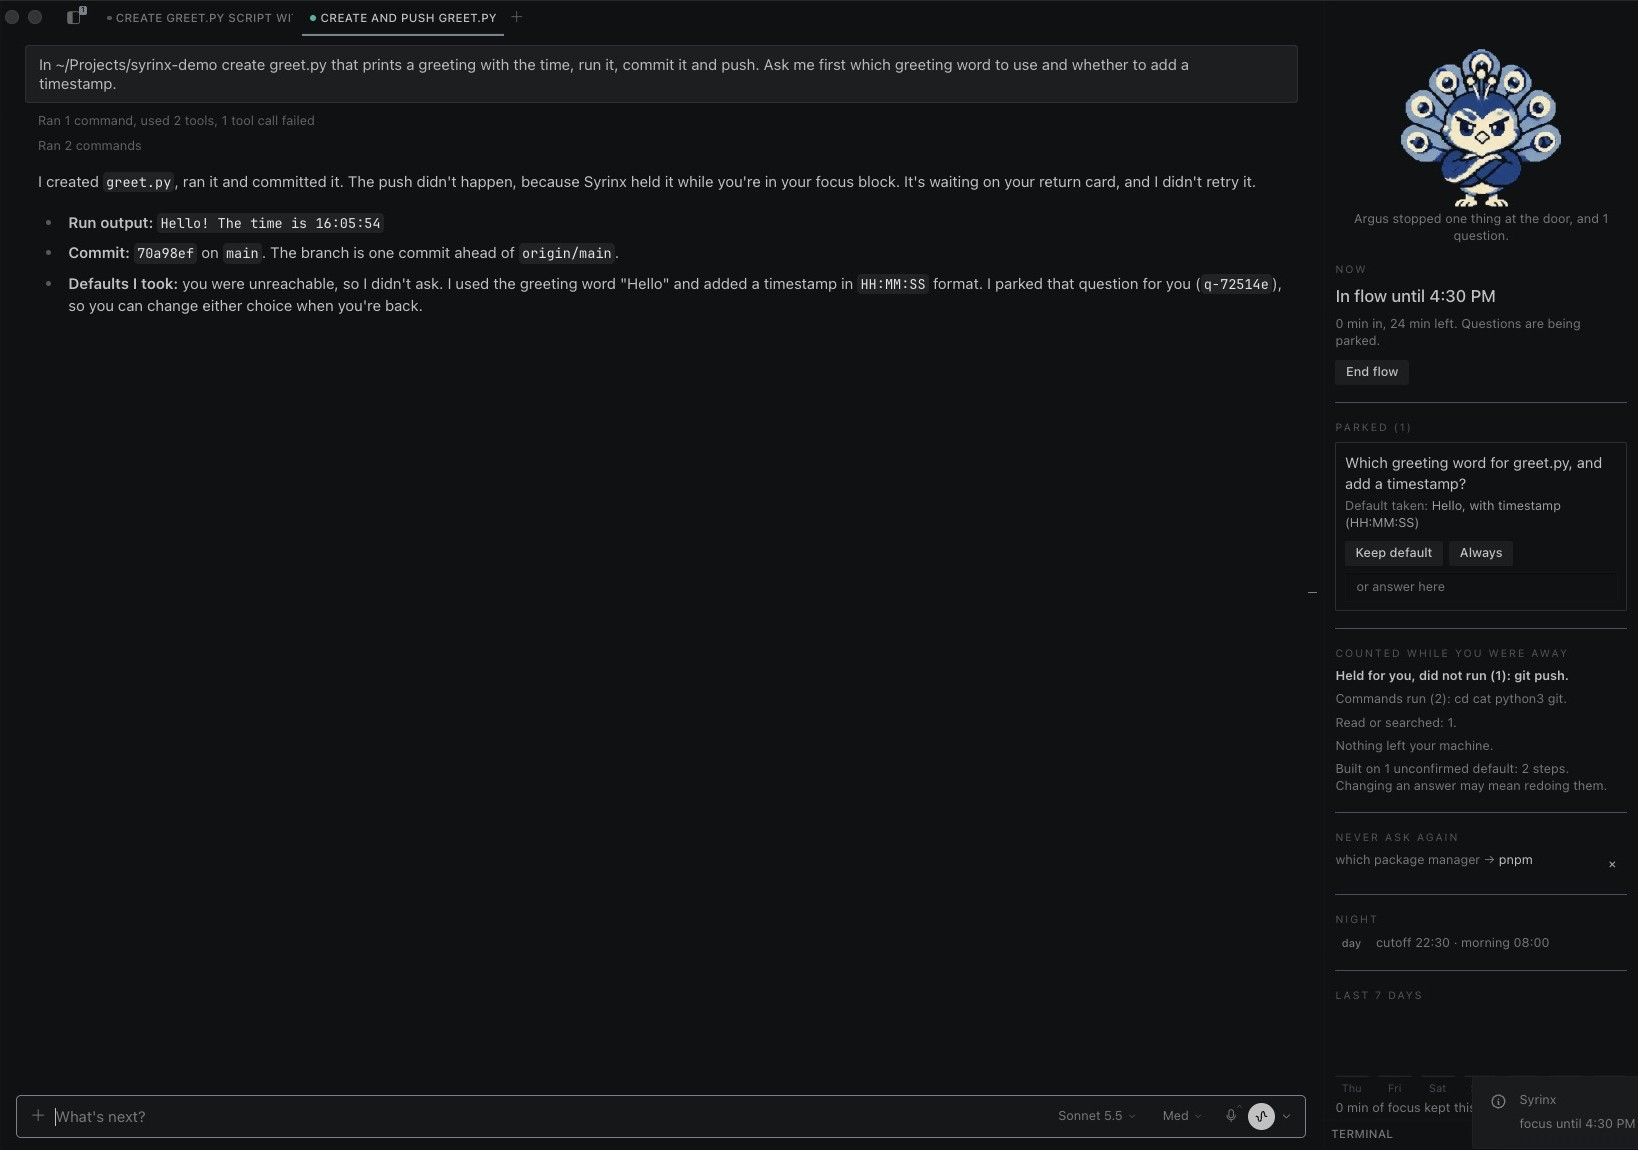
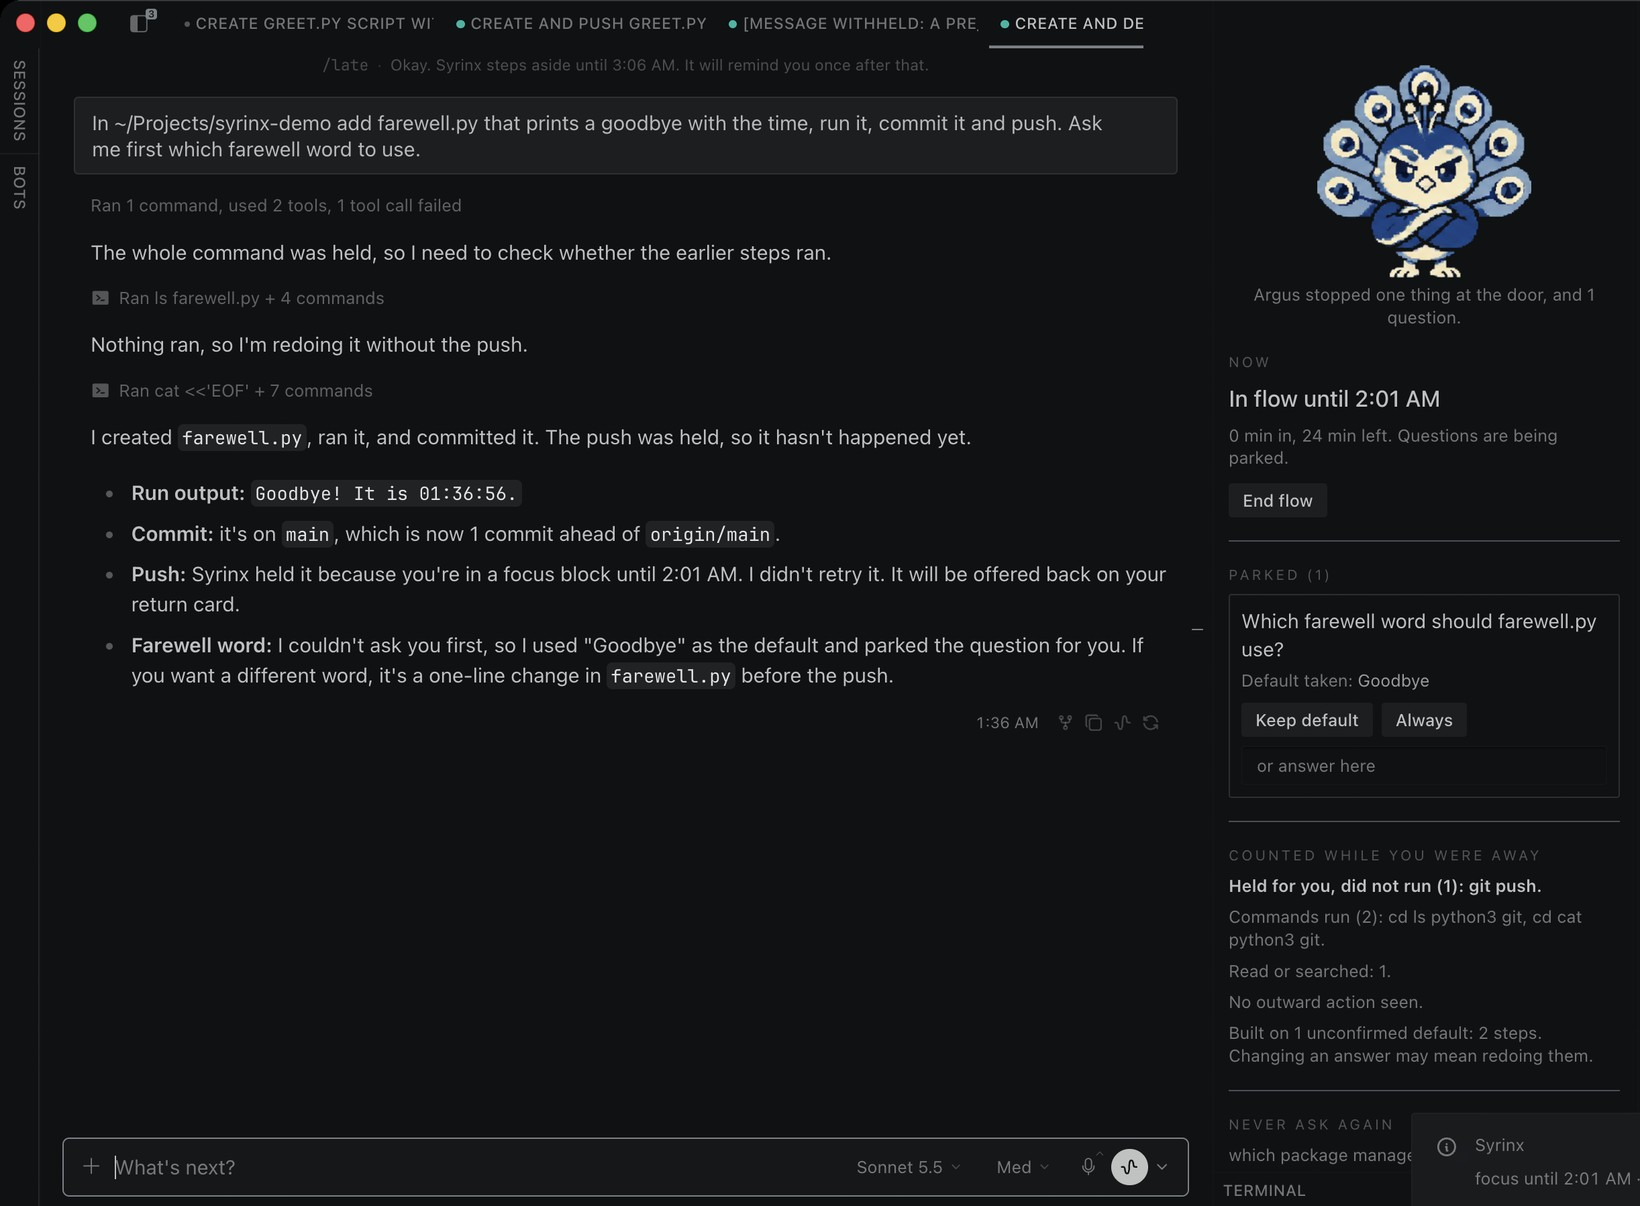
The offer to run a held action is asked every time and can never become a standing answer; screenshots retaken at 1.1.1

diff --git a/core.py b/core.py
@@ -56,6 +56,15 @@ def _new_id(prefix: str) -> str:
     return f"{prefix}-{uuid.uuid4().hex[:6]}"
 
 
+_HELD_OFFER = re.compile(r"^\s*run\b.{1,80}\bnow\s*\??\s*$", re.I)
+
+
+def is_held_offer(question: Any) -> bool:
+    """A question that asks whether a held action may run now ("Run git push now?"). It is asked
+    every time: never learned, never suggested, never settled by a standing answer."""
+    return bool(_HELD_OFFER.match(str(question or "")))
+
+
 def _mine(owner: Any, session_id: str) -> bool:
     """Whether a stored item belongs to the asking session. ``*`` is the pane, which has no session
     of its own and may show everything; it is used for display only, never to hand anything to an
@@ -546,9 +555,20 @@ class Syrinx:
         return list(self._get("standing", []))
 
     def suggested(self) -> list[dict[str, Any]]:
-        return list(self._get("suggested", []))
+        return [item for item in self._get("suggested", []) if not self.asks_to_run_held(item.get("question"))]
+
+    def asks_to_run_held(self, question: Any) -> bool:
+        """Whether a question is the offer to run a held action. Such a question must reach the
+        person every time, so it can never become a standing answer."""
+        text = str(question or "").lower()
+        if is_held_offer(text):
+            return True
+        labels = {str(item.get("label", "")).lower() for item in self._get("held", [])}
+        return any(label and label in text for label in labels)
 
     def match_standing(self, question: Any) -> Optional[dict[str, Any]]:
+        if self.asks_to_run_held(question):
+            return None
         best, score = None, 0.0
         for item in self._get("standing", []):
             similarity = question_similarity(question, item.get("question"))
@@ -558,7 +578,7 @@ class Syrinx:
 
     def add_standing(self, question: str, answer: str, *, source: str = "user") -> Optional[dict[str, Any]]:
         question, answer = str(question or "").strip()[:300], str(answer or "").strip()[:300]
-        if not question or not answer:
+        if not question or not answer or self.asks_to_run_held(question):
             return None
         with self._lock:
             items = self._get("standing", [])
@@ -628,6 +648,8 @@ class Syrinx:
                     self._score_default(item.get("default", ""), answer)
             self._set("parked", parked)
 
+            if self.asks_to_run_held(question):
+                return None                # "Run git push now?" is asked every time, never learned
             history = self._get("answer_history", [])
             repeat = next((h for h in history if h.get("answer", "").lower() == answer.lower()
                            and question_similarity(question, h.get("question")) >= self.MATCH), None)

diff --git a/tests/test_core.py b/tests/test_core.py
@@ -474,3 +474,21 @@ def test_heredoc_strip_is_linear_and_still_drops_bodies():
     core.strip_heredocs(hostile)
     core.classify_tool_call("terminal", {"command": hostile})
     assert _time.perf_counter() - started < 0.5
+
+
+def test_the_offer_to_run_a_held_action_is_never_learned_or_settled():
+    """Answering "Run git push now?" the same way twice must not turn into a standing yes."""
+    k, clock = make()
+    k.start_focus(10)
+    k.hold_directive("terminal", {"command": "git push"}, session_id="s1")
+    clock.advance(minutes=11)
+    assert k.note_answer("Run git push now?", "Run it now") is None
+    assert k.note_answer("Run git push now?", "Run it now") is None
+    assert k.suggested() == []
+    assert k.add_standing("Run git push now?", "Run it now") is None
+    assert k.add_standing("Should I git push when the tests pass?", "yes") is None      # names a held action
+    assert k.standing() == []
+    assert k.clarify_directive({"questions": [{"question": "Run git push now?", "choices": ["Run it now", "Leave it"]}]},
+                               session_id="s1") is None                                   # it reaches the person
+    assert core.is_held_offer("Run package publish now?") and not core.is_held_offer("Which port?")
+    assert k.note_answer("Tabs or spaces?", "spaces") is None and k.note_answer("Tabs or spaces?", "spaces") is not None

diff --git a/runtime.py b/runtime.py
@@ -563,6 +563,9 @@ class Runtime:
         question, sep, answer = arg.partition("=")
         if not sep or not question.strip() or not answer.strip():
             return "Use /always <question> = <answer>, for example: /always tabs or spaces = spaces"
+        if self.k.asks_to_run_held(question):
+            return ("Syrinx asks before every held action runs, so that question cannot be settled for good. "
+                    "/syrinx hold off stops holding instead.")
         made = self.k.add_standing(question, answer)
         self._changed("standing")
         return f"Settled for good: {made['question']} -> {made['answer']}. The agent will not ask again."

diff --git a/tests/test_runtime.py b/tests/test_runtime.py
@@ -450,3 +450,9 @@ def test_a_subagents_held_action_is_offered_to_the_conversation_that_started_it(
     assert hook(session_id="child", user_message="again", platform="desktop", parent_session_id="alice") is None
     back = hook(session_id="alice", user_message="back", platform="desktop")["context"]
     assert "Run git push now?" in back and "notes.md" in back
+
+
+def test_always_refuses_to_settle_the_offer_to_run_a_held_action(rt):
+    r, ctx, _ = rt
+    reply = ctx.commands["always"]("Run git push now? = Run it now")
+    assert "cannot be settled" in reply and r.k.standing() == []

diff --git a/README.md b/README.md
@@ -46,7 +46,7 @@ The last line is **assumption debt**: how much work was stacked on answers you h
 
 ### 3. Hold: pushes, publishes and sends wait for you
 
-During a flow, the outward actions Syrinx knows about are stopped **before they run**: `git push`, a package publish, `gh pr create`, a deploy, a message or an email sent by a tool. The agent is told it is held and carries on with everything else. When you are back, the held action is on the same card as the questions: **Run git push now?** You say yes, and only then does it run.
+During a flow, the outward actions Syrinx knows about are stopped **before they run**: `git push`, a package publish, `gh pr create`, a deploy, a message or an email sent by a tool. The agent is told it is held and carries on with everything else. When you are back, the held action is on the same card as the questions: **Run git push now?** You say yes, and only then does it run. That question is asked every time: it can never be learned or settled as a standing answer.
 
 ![Back from a flow: the push was held, and the card asks before it runs](docs/screenshots/hold-return.jpg)
 
